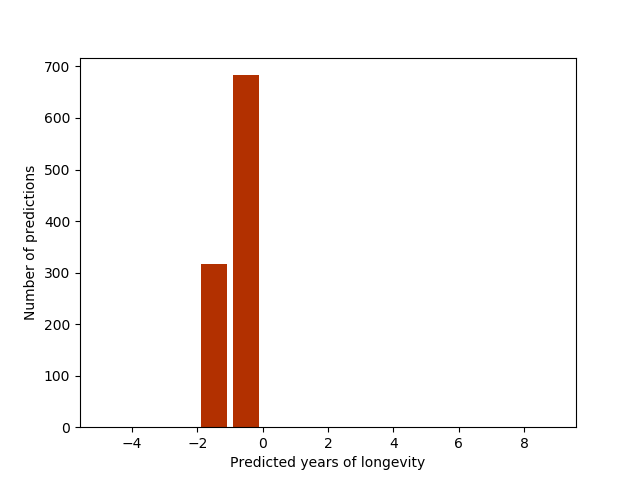
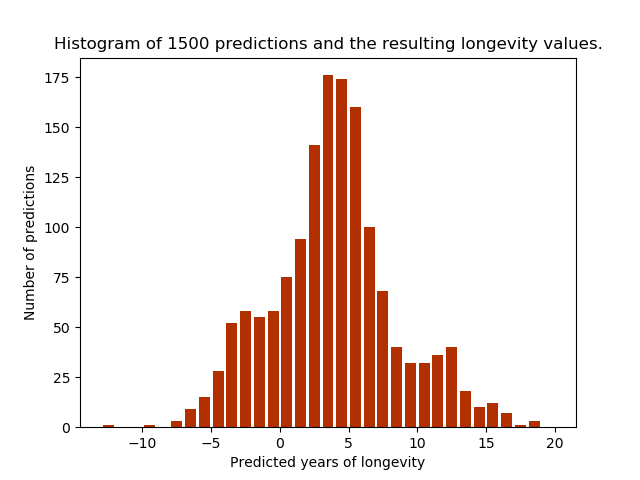
skrksr

diff --git a/root/webinterface/static/script/display.js b/root/webinterface/static/script/display.js
@@ -91,7 +91,7 @@ $(document).ready(function () {
     });
 
     $('#saveTarget').click(function() {
-        var formValid = true;
+        let formValid = true;
         $('#patientInfoForm form input, #patientInfoForm form select').each(function() {
             if ($(this).val() === "") {
                 formValid = false;
@@ -129,17 +129,15 @@ $(document).ready(function () {
             }
 
             for(let item in patientInfo) {
-                console.log(item.search('Has the implant'));
-                if (item == 'Has the implant been removed?' || item == 'Was the cup loose? (if it was removed)' ||
-                    item == 'Was the stem loose? (if it was removed)') {
+                if (item.toLowerCase().search('removed') >= 0) {
                     let whetherOrNot = 'Yes';
                     if (patientInfo[item] == 0) {
                         whetherOrNot = 'No';
                     }
                     $('#patInfoSheet').append('<tr><td class="patinfodesc">' + item + '</td><td class="patinfoval">' +
                         whetherOrNot + '</td></tr>');
-                } else if (patientInfo[item] == 'Sex / Gender ') {
-                    var gender = 'Undefined';
+                } else if (item.toLowerCase().search('gender') >= 0) {
+                    let gender = 'Undefined';
                     if (patientInfo[item] == 1) {
                         gender = 'Male';
                     } else if (patientInfo[item] == 2) {
@@ -190,12 +188,8 @@ $(document).ready(function () {
     $('#back').click(function() {
         stopProcess();
         clearTable();
-        $('#graphsbutton').removeClass('buttonClicked');
         hideMostElements();
-
-        for (let thing in currentWindow) {
-            console.log(currentWindow[thing]);
-        }
+        $('#graphsbutton').removeClass('buttonClicked');
 
         if (currentWindow.length > 1) {
             let previousWindow = currentWindow[currentWindow.length - 2];
@@ -203,7 +197,6 @@ $(document).ready(function () {
                 previousWindow = currentWindow[currentWindow.length - 1];
                 currentWindow.pop();
             } else {
-                console.log('skrrt');
                 currentWindow.pop();
                 currentWindow.pop();
             }
@@ -223,8 +216,9 @@ function loading() {
     clearTable();
     $('#title h1').text('Loading...');
     $('#title p').text('We\'re doing some heavy lifting. This shouldn\'t take more than a minute or a few.').append('' +
-        '<br/><br/>').append('If the loading takes more than a few minutes, please check if the status bar below is ' +
-        'loading as well. If it is, your computer is slow and there\'s not an awul lot to do about that.');
+        '<br><br>').append('If the loading takes more than a few minutes, please check if the status bar below is ' +
+        'loading as well. If it is, your computer or the network might be slow and there\'s not an awful lot to do ' +
+        'about that.');
     $('#loadinggif, #cancel, #back, #data').fadeIn();
     $('#centercontent').slideDown();
 }
@@ -245,7 +239,6 @@ function loadPage() {
 
 var start = function () {
     currentWindow.push(start);
-    console.log('run');
     doneLoading();
     $('#start').hide();
     slide = 'down';
@@ -263,8 +256,10 @@ var enterPatientInfo = function () {
     doneLoading();
     clearTable();
     $('#title h1').text('Patient information form');
-    $('#title p').text('We need you to enter all the information on your patient here. If you\'re missing some ' +
-        'data, please enter -1.');
+    $('#title p').text('This is the patient information form. The left column shows the categories of information ' +
+        'we need to do an estimation of how long an implant will last in a patient.').append('<br><br>' + 'We need ' +
+        'you to enter all the information on your patient here. All fields need to be filled in before you continue. ' +
+        'If you don\'t have the information on a specific category, just enter 0.');
     $('#patientInfoForm, #patientInfoForm form, .input, #data').slideDown();
     systemStatusGood();
     if (slide) {
@@ -280,9 +275,10 @@ var nextStep = function () {
     hideMostElements();
     systemStatusGood();
     $('#title h1').text('One last thing...');
-    $('#title p').text('We\'re ready to start predicting! The prediction usually takes a minute to run, but that ' +
-        'depends on how beefy your computer processor is. It might take longer. If you want, you can specify which ' +
-        'parts of the patient information will be taken into consideration.');
+    $('#title p').text('We\'re ready to start the process of predicting. If you want to start this process, click the ' +
+        'big orange button with \"Run prediction\" written all over it.').append('<br><br>There is an option to ' +
+        'change which features (categories in the information sheet) should be included in the prediction process - ' +
+        'please note however that the default setting has been recommended by an expert in medicinal statistics.');
     $('.input, .input button, #data, .navigation, #patInfoDisplay').slideDown();
 };
 
@@ -293,10 +289,11 @@ var featureSelection = function(input) {
     $('#features').append(input);
     $('#title h1').text('Dataset features');
     $('#title p').text('These are the features (or columns) of the dataset - also known as the ' +
-        'categories of information gathered from each patient.').append("<br /><br />").append('The ' +
-        'checkboxes indicate whether or not a feature will be included when the system predicts how long ' +
-        'an implant will last in the given patient, by checking a box you include that feature in the ' +
-        'prediction.');
+        'categories of information gathered from each patient.').append('<br><br> The checkboxes indicate whether ' +
+        'or not a feature (information sheet category) will be included when the system predicts how long an implant ' +
+        'will last in the given patient.').append('<br><br>By clicking the checkbox for any given feature, you will' +
+        'include that feature in the prediction process.<br><br>Default set of features is CR, CO, LINWEAR, ' +
+        'LINWEARRATE, INC, ANT, MALE, FEMALE.');
     $('#features, .feature, .feature button, #data, .navigation').show();
     systemStatusGood();
 };
@@ -306,9 +303,10 @@ var displayResults = function() {
         currentWindow.push(displayResults);
         doneLoading();
         $('#title h1').text('Results');
-        $('#title p').text('Displayed in the center of the page is the results from predicting the longevity of the ' +
-        'patients implant, given the information you provided in the patient information form.' + '</br></br>' +
-        'This is a work in progress. Please do not accept the results as conclusive.');
+        $('#title p').text('The center page displays the estimated longevity of the implant (in years). This ' +
+            'estimation is based on the values in the patient informaton form. A goodness-of-fit metric for the ' +
+            'estimation model is available by clicking the R2 button, more statistical information is available by ' +
+            'clicking the button below the estimation.');
         $('#results_table, #graphFiller, #graphs, #r2button').fadeIn();
     } else {
         console.log('process terminated');
@@ -316,9 +314,8 @@ var displayResults = function() {
 }
 
 function displayImage(images) {
-    for(var image in images) {
-        console.log(images[image]);
-        var img = document.createElement('img');
+    for(let image in images) {
+        let img = document.createElement('img');
         img.setAttribute('src', '../static/img/graphs/' + images[image]);
         img.setAttribute('class', 'graphImage');
         document.getElementById('graphs').appendChild(img);
@@ -329,12 +326,9 @@ function displayImage(images) {
 }
 
 function updateTable(json) {
-    $.each(json, function(index, item) {
-        console.log(item);
-    });
     systemStatusGood();
     if ('r2' in json) {
-        $('#r2info').text('This prediction has an R2 score of ' + parseFloat(json.r2).toFixed(4));
+        $('#r2info').text('This prediction has an R2 score of ' + parseFloat(json.r2).toFixed(4).replace('.', ','));
     }
     if ('stats' in json) {
         $.each(json.stats, function(index, item) {
@@ -343,7 +337,7 @@ function updateTable(json) {
     }
     $.each(json.result, function (index, item) {
         $('#results_table').append('<tr><td id="p">Predicted implant longevity:</td></tr><tr class="result_element">' +
-            '<td id="prediction">' + parseFloat(item['Predicted']).toFixed(3) + ' years.</td></tr>');
+            '<td id="prediction">' + parseFloat(item['Predicted']).toFixed(2).replace('.', ',') + ' years.</td></tr>');
     });
 }
 
@@ -372,7 +366,7 @@ function systemStatusGood() {
 
 function systemStatusLoading() {
     systemLoading = true;
-    var status = $('#status');
+    let status = $('#status');
     if (!status.is(':visible')) {
         status.fadeIn();
     }
@@ -380,7 +374,7 @@ function systemStatusLoading() {
 }
 
 function systemStatusBad() {
-    var status = $('#status');
+    let status = $('#status');
     if (!status.is(':visible')) {
         status.fadeIn();
     }

diff --git a/root/webinterface/templates/index.html b/root/webinterface/templates/index.html
@@ -18,10 +18,10 @@
 
                 </div>
                 <section id="title">
-                    <h1>Predict implant longevity</h1>
-                    <p>This is a system designed to provide predictions on the longevity of a hip arthroplasty implant.
-                        The system uses machine learning techniques based on previous patient data to predict how many
-                        years a given patient will be able to live with their hip implant before corrective surgery.</p>
+                    <h1>Hip Arthroplasty Longevity Estimation System</h1>
+                    <p>Welcome!<br><br>This is a system designed to provide predictions of longevity in a hip arthroplasty implant.
+                        The system is based on machine learning techniques.<br><br>By using these techniques on previously recorded patient data, it cam provide an estimation of how many
+                        years a given patient will be able to live with their hip implant before they may need a revision surgery.</p>
                 </section>
 
                 <div id="status">You need to enable JavaScript.</div>
@@ -184,7 +184,7 @@
 
                         </div>
                         <button id="graphsbutton" class="button"> More information </button>
-                        <button id="r2button" class="hideContent"> R2 score </button>
+                        <button id="r2button" class="hideContent"> R<sup>2</sup> score </button>
                         <div id="r2info"> You shouldn't be able to see this. </div>
                         <div id="statsFiller"></div>
                         <div id="graphs"></div>

diff --git a/root/webinterface/run.py b/root/webinterface/run.py
@@ -39,7 +39,7 @@ def index():
 def decision_tree_regressor():
     Data.stop_process = False
     start_time = time.time()
-    prediction_result = dt_target_prediction()
+    prediction_result = single_target_prediction()
     end_time = (time.time() - start_time)
     print('Runtime is: ' + str(end_time))
 
@@ -139,9 +139,10 @@ def cancel():
 
 
 # Decision tree
-def dt_target_prediction():
+def single_target_prediction():
     r2_list = []
     prediction_results_list.clear()
+    graph_factory.clean_up_graph_folder()
 
     print('Are we testing?', Data.recalibrate)
 
@@ -160,7 +161,9 @@ def dt_target_prediction():
 
     # FOR ACTUAL USE
     if not Data.recalibrate:
-        for x in range(1000):
+        counter, r2 = 0, 0.0
+
+        for x in range(1500):
             # prediction_result, r2 = ml.target_predict_decision_tree(target, Data.recalibrate)
             prediction_result, r2 = ml.target_predict_linear(target, Data.recalibrate)
             r2 = float(r2)
@@ -169,15 +172,15 @@ def dt_target_prediction():
                     print(r2)
             r2_list.append(r2)
             prediction_results_list.append(float(prediction_result))
+            counter += 1
             if Data.stop_process:
                 print('Process stopped, system made ', len(prediction_results_list), ' predictions')
                 break
 
-        graph_factory.clean_up_graph_folder()
-        graphs = graph_factory.histogram_of_results(prediction_results_list)
-        more_graphs = graph_factory.make_some_graphs()
-        for every in more_graphs:
-            graphs.append(every)
+        graphs = graph_factory.histogram_of_results(prediction_results_list, counter)
+        # more_graphs = graph_factory.make_some_graphs()
+        # for every in more_graphs:
+        #     graphs.append(every)
 
         prediction = pd.DataFrame(
             {'Actual': target['years in vivo'], 'Predicted': prediction_results_list[r2_list.index(max(r2_list))]})
@@ -190,8 +193,6 @@ def dt_target_prediction():
         prediction_result, r2 = ml.target_predict_decision_tree(target, Data.recalibrate)
         prediction = pd.DataFrame({'Actual': target['years in vivo'], 'Predicted': prediction_result})
         result = format_results_to_html(prediction, r2)
-
-    print(max(r2_list))
 
     return result
 
@@ -211,6 +212,7 @@ def mlp_target_prediction():
 
     # FOR ACTUAL USE
     if not Data.recalibrate:
+        r2 = 0.0
         for x in range(50):
             prediction_result, r2 = ml.target_predict_mlp(target, Data.recalibrate)
             r2 = float(r2)
@@ -257,6 +259,8 @@ def multiple_linear_regression(control_group=False):
 
     actual = [round(val, 2) for val in actual]
     prediction = [round(val, 2) for val in prediction]
+
+
 
     """
     count = 1

diff --git a/root/webinterface/modules/graph_factory.py b/root/webinterface/modules/graph_factory.py
@@ -4,6 +4,10 @@ import numpy as np
 from statistics import mean
 from modules import datahandler as dth
 import matplotlib.pyplot as plt
+from sklearn import cross_validation
+from sklearn.linear_model import LinearRegression
+from sklearn.pipeline import Pipeline
+from sklearn.preprocessing import PolynomialFeatures
 
 
 def clean_up_graph_folder():
@@ -43,22 +47,39 @@ def make_some_graphs():
     return graphs
 
 
-def histogram_of_results(list_of_results):
+def histogram_of_results(list_of_results, runs=1):
     path = '%s%s' % (dth.Path.img + '/graphs/', 'histogram.png')
+    plt.title('Histogram of %i predictions and the resulting longevity values.' % runs)
     plt.xlabel('Predicted years of longevity')
     plt.ylabel('Number of predictions')
-    bins = range(int(min(list_of_results) - 1), int(max(list_of_results) + 1))
-    if len(list(bins)) < 5:
-        bins = range(-5, 10)
+    bins = range(-2, 20)
+    if min(list_of_results) > -9999 and max(list_of_results) < 9999:
+        bins = range(int(min(list_of_results) - 1), int(max(list_of_results) + 1))
+    else:
+        if len(list(bins)) < 5:
+            bins = range(-2, 6)
     plt.hist(list_of_results, bins=bins, rwidth=0.8, color='#b23000')
     plt.savefig(path)
     plt.clf()
     return ['histogram.png']
 
 
-def best_fit_slope_and_intercept(xs, ys):
-    m = (((mean(xs) * mean(ys)) - mean(xs * ys)) /
-         ((mean(xs) * mean(xs)) - mean(xs * xs)))
-
-    b = mean(ys) - m * mean(xs)
+def best_fit_slope_and_intercept(x, y):
+    m = (((mean(x) * mean(y)) - mean(x * y)) / ((mean(x) * mean(x)) - mean(x * x)))
+    b = mean(y) - m * mean(x)
     return m, b
+
+
+def confidence_interval(x, y):
+    z = np.polyfit(x, y, 1)
+    p = np.poly1d(z)
+    fit = p(x)
+
+    x_coord, y_coord = [np.min(x), np.max(x)], [np.min(fit), np.max(fit)]
+
+
+    path = '%s%s' % (dth.Path.img + '/graphs/', 'confidence.png')
+    plt.xlabel('Predicted longevity (years in vivo)')
+    plt.ylabel('Actual longevity (years in vivo)')
+    plt.title('Confidence interval of regression model')
+    return ['confidence.png']

diff --git a/root/webinterface/modules/ml.py b/root/webinterface/modules/ml.py
@@ -3,7 +3,7 @@ from sklearn.tree import DecisionTreeRegressor
 from sklearn.linear_model import LinearRegression
 from sklearn.neural_network.multilayer_perceptron import MLPRegressor
 from sklearn.model_selection import train_test_split, GridSearchCV, LeaveOneOut
-from sklearn.preprocessing import MinMaxScaler
+from sklearn.preprocessing import MinMaxScaler, PolynomialFeatures
 from sklearn import metrics
 from modules import datahandler, graph_factory
 import numpy as np
@@ -75,6 +75,7 @@ def target_predict_decision_tree(target, recalibrate=False, count=0):
         return False, False, False
 
     target_pred = target.drop('years in vivo', axis=1)
+    r2 = 0.0
 
     if recalibrate:
         parameters = {
@@ -120,6 +121,7 @@ def target_predict_mlp(target, recalibrate=False, count=0):
                                                                      'years in vivo', recalibrate=False)
     target_pred = target
     target_pred = target_pred.drop('years in vivo', axis=1)
+    r2 = 0.0
 
     if recalibrate:
         parameters = {
@@ -161,12 +163,14 @@ def target_predict_mlp(target, recalibrate=False, count=0):
 def target_predict_linear(target, recalibrate=False, count=0):
     vivo_scaler = MinMaxScaler()
     df = dth.Data.dataframe
+    tgt = target
     df[list(df)] = scaler.fit_transform(df[list(df)])
-    vivo_scaler.fit(target['years in vivo'].values.reshape(-1, 1))
-    target[list(target)] = scaler.transform(target[list(target)])
+    vivo_scaler.fit(tgt['years in vivo'].values.reshape(-1, 1))
+    tgt[list(tgt)] = scaler.transform(tgt[list(tgt)])
 
     x_train, x_test, y_train, y_test = split_dataset_into_train_test(df, 'years in vivo', recalibrate=False)
     target_pred = target.drop('years in vivo', axis=1)
+    r2 = 0.0
 
     if recalibrate:
         parameters = {
